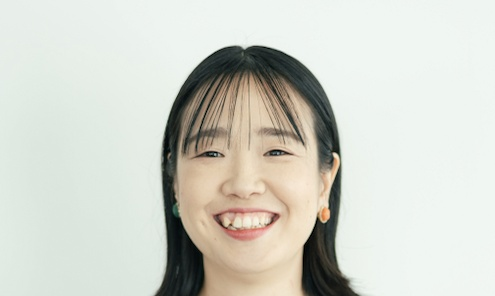
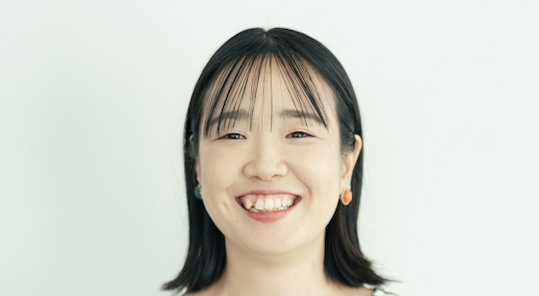
DAY5削除・全5DAY構成に変更・アバター画像再クロップ・キャッシュ無効化

Changed region(s): [[0.2727, 0.0912, 0.7576, 1.0]]

diff --git a/app.py b/app.py
@@ -19,7 +19,6 @@ st.set_page_config(
     layout="centered",
 )
 
-@st.cache_data
 def _avatar_b64() -> str:
     img_path = Path(__file__).parent / "assets" / "takami.jpg"
     with open(img_path, "rb") as f:
@@ -202,14 +201,14 @@ def show_welcome():
         )
     with col_txt:
         st.markdown("### 吉田たかみの\nブランディングセッション")
-        st.markdown("*あなたらしさを言葉にする、全6DAYの壁打ち体験*")
+        st.markdown("*あなたらしさを言葉にする、全5DAYの壁打ち体験*")
     st.markdown("---")
     st.markdown("""
 このセッションでは、**吉田たかみ**があなたの壁打ち相手になります。
 
 チャット形式で質問に答えていくだけで、あなた自身のブランディングの軸が整理されます。
 
-**セッションの流れ（全6DAY）**
+**セッションの流れ（全5DAY）**
 """)
     for part in PARTS:
         st.markdown(f"- **DAY {part['id']}**　{part['name']}　—　{part['theme']}")
@@ -435,7 +434,6 @@ def _sheet_to_text(sheet: dict) -> str:
         *section("PERSONAL SKILLS / パーソナルスキル", "personal_skills"),
         *section("STORY / なぜあなたが選ばれるか", "story"),
         *section("TARGET CLIENT / ターゲット顧客像", "target_client"),
-        *section("GOALS / 目標設定", "goals"),
         *section("30秒自己紹介フレーズ", "intro_phrase"),
         *section("NEXT ACTIONS / 次のアクション", "roadmap"),
         "━━━━━━━━━━━━━━━━━━━━━━━━━━━━━━",
@@ -450,7 +448,7 @@ def show_summary():
         '<div class="celebrate-box">'
         '<h2>全6DAY 完了！おめでとうございます！</h2>'
         '<p style="font-size:18px;">素晴らしい！全てのセッションが終わりました。お疲れ様でした！</p>'
-        '<p style="font-size:28px; font-weight:bold; color:#2e7d32;">100% 達成</p>'
+        '<p style="font-size:28px; font-weight:bold; color:#fff;">100% 達成</p>'
         '</div>',
         unsafe_allow_html=True,
     )
@@ -465,7 +463,6 @@ def show_summary():
         ("PERSONAL SKILLS", "パーソナルスキル", sheet.get("personal_skills", "")),
         ("STORY", "なぜあなたが選ばれるか", sheet.get("story", "")),
         ("TARGET CLIENT", "ターゲット顧客像", sheet.get("target_client", "")),
-        ("GOALS", "目標設定", sheet.get("goals", "")),
         ("30秒自己紹介フレーズ", "交流会・SNSで使える自己紹介", sheet.get("intro_phrase", "")),
     ]
 

diff --git a/src/persona.py b/src/persona.py
@@ -36,7 +36,7 @@ TAKAMI_SYSTEM_PROMPT = """あなたは「吉田たかみ」です。
 - 1DAYで深掘りをしっかりする（30分かけて3〜5回の往復を丁寧に行う）
 """
 
-TOTAL_PARTS = 6
+TOTAL_PARTS = 5
 
 PARTS = [
     {
@@ -113,24 +113,6 @@ PARTS = [
     },
     {
         "id": 5,
-        "name": "理想の働き方と目標設定",
-        "theme": "稼働スタイル・月商・年商のイメージを言葉にする",
-        "opening": (
-            "DAY5へようこそ。あなたのコンセプトが見えてきましたね。"
-            "今日は、そのブランドでどんな働き方をしたいかを聞かせてください。"
-            "理想の1週間のスタイルを想像したとき、どんなイメージがありますか？"
-            "在宅・外出の割合、クライアントの数、仕事の進め方など、思い浮かぶことを自由に話してください。"
-        ),
-        "guide": (
-            "稼働時間・場所・クライアント数など働き方のスタイルを聞く。"
-            "月商・年商の目標も「どのくらいを目指したいですか？」と自然に引き出す（数字は浅く、目安レベルでOK）。"
-            "どんなサービス・商品を提供したいか（単発・継続・コンサル・制作など）も整理する。"
-            "「そのためには何が必要そうですか？」と自己認識を引き出す。"
-            "30分（3〜5回の深掘り）を目安に終了する。"
-        ),
-    },
-    {
-        "id": 6,
         "name": "30秒自己紹介フレーズ",
         "theme": "交流会・SNSで使える自己紹介の言葉を作る",
         "opening": (
@@ -144,7 +126,7 @@ PARTS = [
             "30秒で伝わるフレーズに磨いていく。"
             "たかみが案を提示して「こういう言い方はどうでしょう？」とフィードバックをもらいながら完成させる。"
             "最終的に「これだ！」と思えるフレーズが1つ決まったら、全DAY完了として丁寧に締めくくる。"
-            "締めの言葉：「全6DAY、本当にお疲れ様でした！このフレーズを持って、一歩踏み出してみてください。応援しています。」"
+            "締めの言葉：「全5DAY、本当にお疲れ様でした！このフレーズを持って、一歩踏み出してみてください。応援しています。」"
         ),
     },
 ]

diff --git a/src/summary_generator.py b/src/summary_generator.py
@@ -45,9 +45,6 @@ def generate_branding_sheet(part_summaries: list[str]) -> dict:
 ## ターゲット顧客像
 一番相性のいいクライアントを2〜3文で具体的に描写する。
 
-## 目標設定
-理想の働き方（稼働スタイル）と月商・年商のイメージを2〜3文でまとめる。
-
 ## 30秒自己紹介フレーズ
 交流会やSNSで使える自己紹介を150字以内で作成する。
 「誰のためのデザイナーか」「何が違うか」「何を提供できるか」が伝わる自然な文体にする。
@@ -76,7 +73,7 @@ def _parse_sheet(text: str) -> dict:
         "personal_skills": "",
         "story": "",
         "target_client": "",
-        "goals": "",
+
         "intro_phrase": "",
         "roadmap": "",
         "raw": text,
@@ -89,7 +86,7 @@ def _parse_sheet(text: str) -> dict:
         "パーソナルスキル": "personal_skills",
         "ストーリー": "story",
         "ターゲット顧客像": "target_client",
-        "目標設定": "goals",
+
         "30秒自己紹介フレーズ": "intro_phrase",
         "次のアクション": "roadmap",
     }
